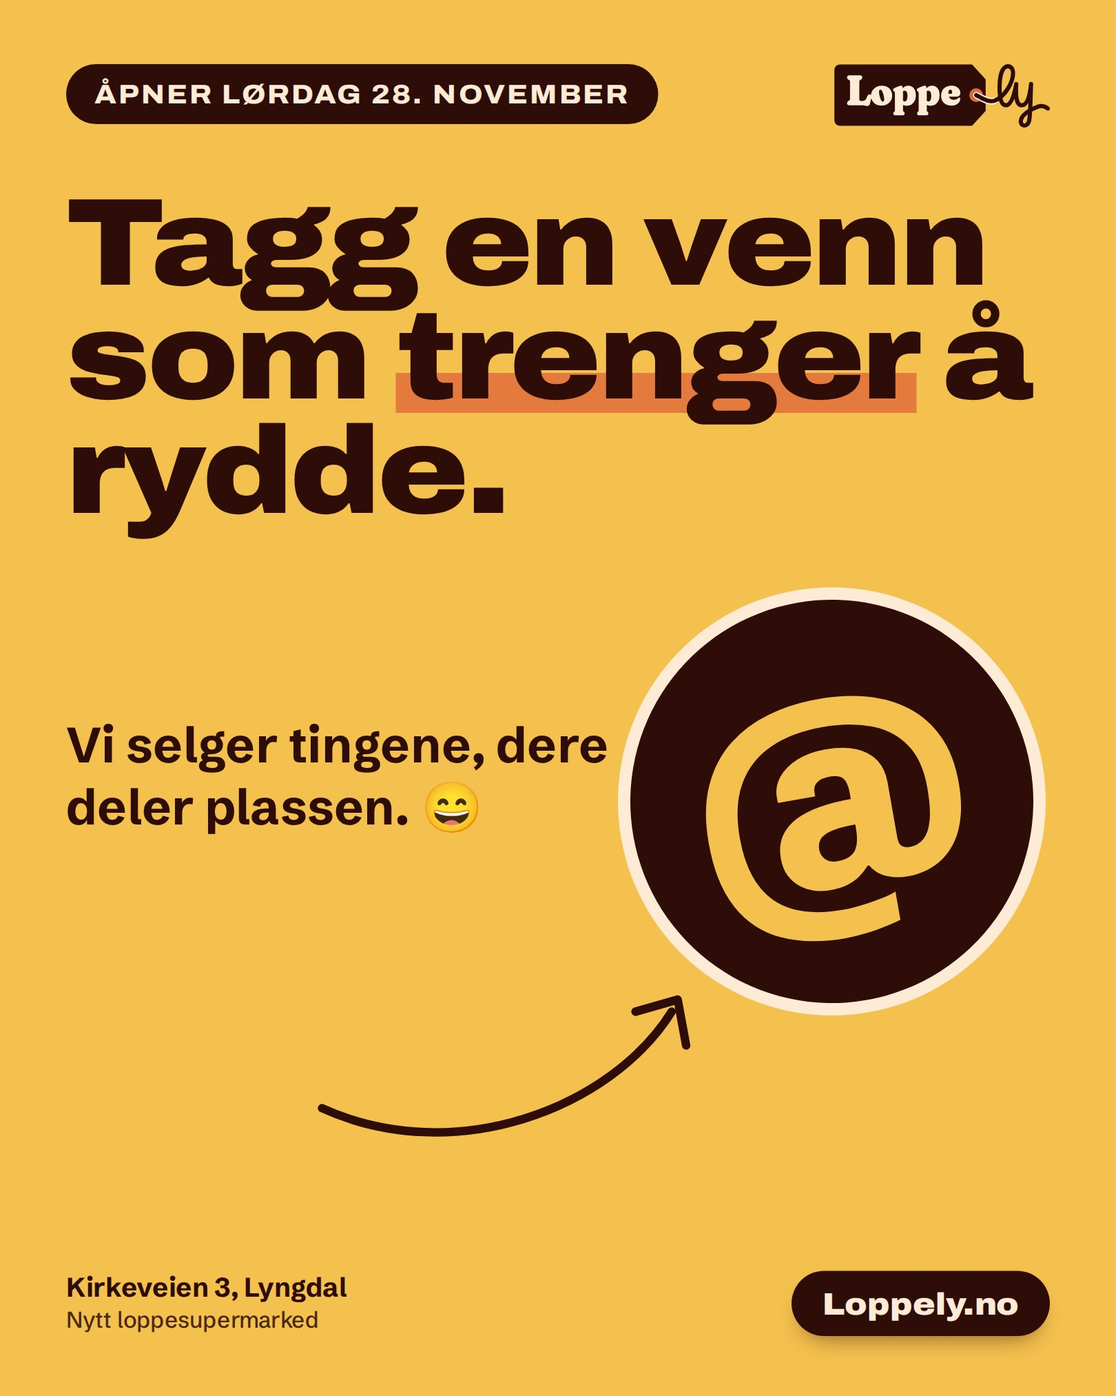
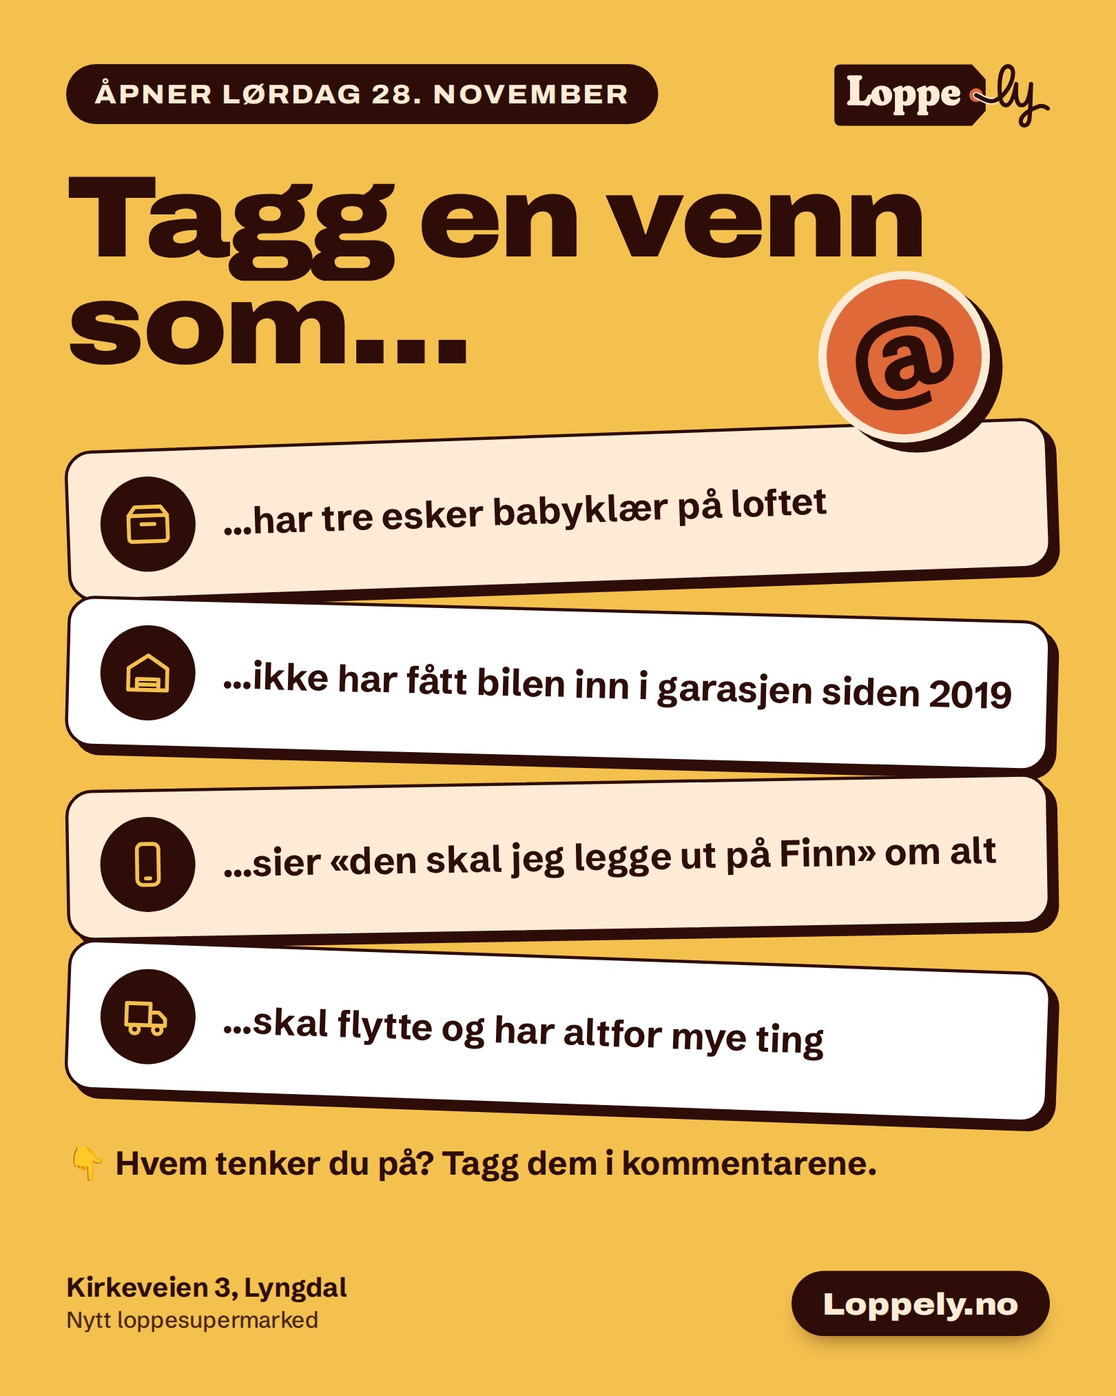
ads: 'Tagg en venn som…' with four relatable types for more comments and tags
Claude-Session: https://claude.ai/code/session_01RRhAi942qst8ZUNjrS2TNS

diff --git a/ads/index.html b/ads/index.html
@@ -47,7 +47,7 @@ footer a{color:inherit}
   </div>
   <div class="grid">
   <article class="card" id="01-konsept">
-    <a class="img" href="01-konsept.jpg?v=09291032" target="_blank"><img src="01-konsept.jpg?v=09291032" width="1620" height="2025" loading="lazy" alt="Konseptet på ett bilde"></a>
+    <a class="img" href="01-konsept.jpg?v=09291227" target="_blank"><img src="01-konsept.jpg?v=09291227" width="1620" height="2025" loading="lazy" alt="Konseptet på ett bilde"></a>
     <div class="body">
       <h2>Konseptet på ett bilde</h2>
       <p class="when">Første innlegg. Fest det øverst på siden.</p>
@@ -58,11 +58,11 @@ Loppely er et nytt loppesupermarked i Kirkeveien 3 i Lyngdal. Du leier en stand,
 Vi åpner lørdag 28. november.
 
 Les mer og meld interesse på Loppely.no</pre>
-      <div class="btns"><button class="btn copy" type="button">Kopier tekst</button><a class="btn ghost" href="01-konsept.jpg?v=09291032" download="01-konsept.jpg">Last ned bilde</a></div>
+      <div class="btns"><button class="btn copy" type="button">Kopier tekst</button><a class="btn ghost" href="01-konsept.jpg?v=09291227" download="01-konsept.jpg">Last ned bilde</a></div>
     </div>
   </article>
   <article class="card" id="02-slik-funker-det">
-    <a class="img" href="02-slik-funker-det.jpg?v=09291032" target="_blank"><img src="02-slik-funker-det.jpg?v=09291032" width="1620" height="2025" loading="lazy" alt="Slik funker det"></a>
+    <a class="img" href="02-slik-funker-det.jpg?v=09291227" target="_blank"><img src="02-slik-funker-det.jpg?v=09291227" width="1620" height="2025" loading="lazy" alt="Slik funker det"></a>
     <div class="body">
       <h2>Slik funker det</h2>
       <p class="when">Uke 1. Forklarer konseptet steg for steg.</p>
@@ -77,11 +77,11 @@ Du trenger ikke stå der selv. Følg salget på «Min side».
 
 Åpner lørdag 28. november i Kirkeveien 3, Lyngdal.
 Loppely.no</pre>
-      <div class="btns"><button class="btn copy" type="button">Kopier tekst</button><a class="btn ghost" href="02-slik-funker-det.jpg?v=09291032" download="02-slik-funker-det.jpg">Last ned bilde</a></div>
+      <div class="btns"><button class="btn copy" type="button">Kopier tekst</button><a class="btn ghost" href="02-slik-funker-det.jpg?v=09291227" download="02-slik-funker-det.jpg">Last ned bilde</a></div>
     </div>
   </article>
   <article class="card" id="03-her-er-vi">
-    <a class="img" href="03-her-er-vi.jpg?v=09291032" target="_blank"><img src="03-her-er-vi.jpg?v=09291032" width="1620" height="2025" loading="lazy" alt="Her finner du oss"></a>
+    <a class="img" href="03-her-er-vi.jpg?v=09291227" target="_blank"><img src="03-her-er-vi.jpg?v=09291227" width="1620" height="2025" loading="lazy" alt="Her finner du oss"></a>
     <div class="body">
       <h2>Her finner du oss</h2>
       <p class="when">Uke 2, og igjen uka før åpning.</p>
@@ -93,11 +93,11 @@ Loppely ligger i Kirkeveien 3, midt i Lyngdal sentrum. Gå rett ned trappen, så
 Vi åpner lørdag 28. november.
 
 Veibeskrivelse på Loppely.no</pre>
-      <div class="btns"><button class="btn copy" type="button">Kopier tekst</button><a class="btn ghost" href="03-her-er-vi.jpg?v=09291032" download="03-her-er-vi.jpg">Last ned bilde</a></div>
+      <div class="btns"><button class="btn copy" type="button">Kopier tekst</button><a class="btn ghost" href="03-her-er-vi.jpg?v=09291227" download="03-her-er-vi.jpg">Last ned bilde</a></div>
     </div>
   </article>
   <article class="card" id="04-priser">
-    <a class="img" href="04-priser.jpg?v=09291032" target="_blank"><img src="04-priser.jpg?v=09291032" width="1620" height="2025" loading="lazy" alt="Priser"></a>
+    <a class="img" href="04-priser.jpg?v=09291227" target="_blank"><img src="04-priser.jpg?v=09291227" width="1620" height="2025" loading="lazy" alt="Priser"></a>
     <div class="body">
       <h2>Priser</h2>
       <p class="when">Uke 2. Svarer på «hva koster det?».</p>
@@ -110,11 +110,11 @@ VIP: fra 349 kr per uke og 29% provisjon. Du leverer varene, vi gjør resten.
 Alle priser inkluderer mva. Laveste pris gjelder ved leie i 4 uker.
 
 Se alt på Loppely.no</pre>
-      <div class="btns"><button class="btn copy" type="button">Kopier tekst</button><a class="btn ghost" href="04-priser.jpg?v=09291032" download="04-priser.jpg">Last ned bilde</a></div>
+      <div class="btns"><button class="btn copy" type="button">Kopier tekst</button><a class="btn ghost" href="04-priser.jpg?v=09291227" download="04-priser.jpg">Last ned bilde</a></div>
     </div>
   </article>
   <article class="card" id="05-utbetalt">
-    <a class="img" href="05-utbetalt.jpg?v=09291032" target="_blank"><img src="05-utbetalt.jpg?v=09291032" width="1620" height="2025" loading="lazy" alt="Dette får du utbetalt"></a>
+    <a class="img" href="05-utbetalt.jpg?v=09291227" target="_blank"><img src="05-utbetalt.jpg?v=09291227" width="1620" height="2025" loading="lazy" alt="Dette får du utbetalt"></a>
     <div class="body">
       <h2>Dette får du utbetalt</h2>
       <p class="when">Uke 3. Gjør regnestykket konkret.</p>
@@ -125,11 +125,11 @@ Selger du noe for 500 kr hos Loppely, får du 405 kr. Provisjonen er 19%, og den
 Pengene betales ut til kontoen din hver måned.
 
 Regn på flere eksempler på Loppely.no</pre>
-      <div class="btns"><button class="btn copy" type="button">Kopier tekst</button><a class="btn ghost" href="05-utbetalt.jpg?v=09291032" download="05-utbetalt.jpg">Last ned bilde</a></div>
+      <div class="btns"><button class="btn copy" type="button">Kopier tekst</button><a class="btn ghost" href="05-utbetalt.jpg?v=09291227" download="05-utbetalt.jpg">Last ned bilde</a></div>
     </div>
   </article>
   <article class="card" id="06-forste-uke-gratis">
-    <a class="img" href="06-forste-uke-gratis.jpg?v=09291032" target="_blank"><img src="06-forste-uke-gratis.jpg?v=09291032" width="1620" height="2025" loading="lazy" alt="Første uke gratis"></a>
+    <a class="img" href="06-forste-uke-gratis.jpg?v=09291227" target="_blank"><img src="06-forste-uke-gratis.jpg?v=09291227" width="1620" height="2025" loading="lazy" alt="Første uke gratis"></a>
     <div class="body">
       <h2>Første uke gratis</h2>
       <p class="when">Når dere vil ha flere på interesselista.</p>
@@ -140,11 +140,11 @@ Meld interesse på Loppely.no, så får du første uke gratis når du leier stan
 Det er gratis og uforpliktende å stå på lista. Vi tar kontakt før åpning.
 
 Loppely åpner lørdag 28. november i Kirkeveien 3, Lyngdal.</pre>
-      <div class="btns"><button class="btn copy" type="button">Kopier tekst</button><a class="btn ghost" href="06-forste-uke-gratis.jpg?v=09291032" download="06-forste-uke-gratis.jpg">Last ned bilde</a></div>
+      <div class="btns"><button class="btn copy" type="button">Kopier tekst</button><a class="btn ghost" href="06-forste-uke-gratis.jpg?v=09291227" download="06-forste-uke-gratis.jpg">Last ned bilde</a></div>
     </div>
   </article>
   <article class="card" id="07-hva-kan-du-selge">
-    <a class="img" href="07-hva-kan-du-selge.jpg?v=09291032" target="_blank"><img src="07-hva-kan-du-selge.jpg?v=09291032" width="1620" height="2025" loading="lazy" alt="Hva kan du selge?"></a>
+    <a class="img" href="07-hva-kan-du-selge.jpg?v=09291227" target="_blank"><img src="07-hva-kan-du-selge.jpg?v=09291227" width="1620" height="2025" loading="lazy" alt="Hva kan du selge?"></a>
     <div class="body">
       <h2>Hva kan du selge?</h2>
       <p class="when">Uke 3. Får folk til å tenke på boden sin.</p>
@@ -155,11 +155,11 @@ Hos Loppely kan du selge klær, barneting, leker, bøker, kjøkkenutstyr, sports
 Større ting som sykler, barnevogner og mindre møbler selger du for 39 kr per uke.
 
 Se hva du kan selge på Loppely.no</pre>
-      <div class="btns"><button class="btn copy" type="button">Kopier tekst</button><a class="btn ghost" href="07-hva-kan-du-selge.jpg?v=09291032" download="07-hva-kan-du-selge.jpg">Last ned bilde</a></div>
+      <div class="btns"><button class="btn copy" type="button">Kopier tekst</button><a class="btn ghost" href="07-hva-kan-du-selge.jpg?v=09291227" download="07-hva-kan-du-selge.jpg">Last ned bilde</a></div>
     </div>
   </article>
   <article class="card" id="08-vip">
-    <a class="img" href="08-vip.jpg?v=09291032" target="_blank"><img src="08-vip.jpg?v=09291032" width="1620" height="2025" loading="lazy" alt="VIP: Vi gjør alt"></a>
+    <a class="img" href="08-vip.jpg?v=09291227" target="_blank"><img src="08-vip.jpg?v=09291227" width="1620" height="2025" loading="lazy" alt="VIP: Vi gjør alt"></a>
     <div class="body">
       <h2>VIP: Vi gjør alt</h2>
       <p class="when">For dem som ikke har tid.</p>
@@ -170,11 +170,11 @@ Du leverer varene, så tar vi bilder, priser og registrerer dem, og gjør stande
 Fra 349 kr per uke og 29% provisjon.
 
 Les mer på Loppely.no</pre>
-      <div class="btns"><button class="btn copy" type="button">Kopier tekst</button><a class="btn ghost" href="08-vip.jpg?v=09291032" download="08-vip.jpg">Last ned bilde</a></div>
+      <div class="btns"><button class="btn copy" type="button">Kopier tekst</button><a class="btn ghost" href="08-vip.jpg?v=09291227" download="08-vip.jpg">Last ned bilde</a></div>
     </div>
   </article>
   <article class="card" id="09-merk-datoen">
-    <a class="img" href="09-merk-datoen.jpg?v=09291032" target="_blank"><img src="09-merk-datoen.jpg?v=09291032" width="1620" height="2025" loading="lazy" alt="Merk datoen"></a>
+    <a class="img" href="09-merk-datoen.jpg?v=09291227" target="_blank"><img src="09-merk-datoen.jpg?v=09291227" width="1620" height="2025" loading="lazy" alt="Merk datoen"></a>
     <div class="body">
       <h2>Merk datoen</h2>
       <p class="when">2 til 3 uker før åpning, og dagen før.</p>
@@ -184,11 +184,11 @@ Lørdag 28. november kl. 10 åpner Loppely i Kirkeveien 3, Lyngdal. Et helt nytt
 
 Vil du selge? Meld interesse på Loppely.no
 Vil du handle? Vi sees 28. november!</pre>
-      <div class="btns"><button class="btn copy" type="button">Kopier tekst</button><a class="btn ghost" href="09-merk-datoen.jpg?v=09291032" download="09-merk-datoen.jpg">Last ned bilde</a></div>
+      <div class="btns"><button class="btn copy" type="button">Kopier tekst</button><a class="btn ghost" href="09-merk-datoen.jpg?v=09291227" download="09-merk-datoen.jpg">Last ned bilde</a></div>
     </div>
   </article>
   <article class="card" id="10-rydd-til-jul">
-    <a class="img" href="10-rydd-til-jul.jpg?v=09291032" target="_blank"><img src="10-rydd-til-jul.jpg?v=09291032" width="1620" height="2025" loading="lazy" alt="Rydd plass til jul"></a>
+    <a class="img" href="10-rydd-til-jul.jpg?v=09291227" target="_blank"><img src="10-rydd-til-jul.jpg?v=09291227" width="1620" height="2025" loading="lazy" alt="Rydd plass til jul"></a>
     <div class="body">
       <h2>Rydd plass til jul</h2>
       <p class="when">Fra midten av november.</p>
@@ -199,11 +199,11 @@ Leker barna har vokst fra, klær som ikke passer, ting som bare står i boden. D
 Lei en stand hos Loppely, så selger vi for deg gjennom hele julehandelen. Vi åpner lørdag 28. november.
 
 Loppely.no</pre>
-      <div class="btns"><button class="btn copy" type="button">Kopier tekst</button><a class="btn ghost" href="10-rydd-til-jul.jpg?v=09291032" download="10-rydd-til-jul.jpg">Last ned bilde</a></div>
+      <div class="btns"><button class="btn copy" type="button">Kopier tekst</button><a class="btn ghost" href="10-rydd-til-jul.jpg?v=09291227" download="10-rydd-til-jul.jpg">Last ned bilde</a></div>
     </div>
   </article>
   <article class="card" id="11-hvem-er-vi">
-    <a class="img" href="11-hvem-er-vi.jpg?v=09291032" target="_blank"><img src="11-hvem-er-vi.jpg?v=09291032" width="1620" height="2025" loading="lazy" alt="Hvem er vi"></a>
+    <a class="img" href="11-hvem-er-vi.jpg?v=09291227" target="_blank"><img src="11-hvem-er-vi.jpg?v=09291227" width="1620" height="2025" loading="lazy" alt="Hvem er vi"></a>
     <div class="body">
       <h2>Hvem er vi</h2>
       <p class="when">Tidlig. Folk handler med folk.</p>
@@ -214,11 +214,11 @@ Vi åpner Loppely i Lyngdal fordi vi mener gode ting fortjener et nytt hjem, og 
 Lørdag 28. november åpner vi dørene i Kirkeveien 3. Vi gleder oss til å se dere!
 
 Loppely.no</pre>
-      <div class="btns"><button class="btn copy" type="button">Kopier tekst</button><a class="btn ghost" href="11-hvem-er-vi.jpg?v=09291032" download="11-hvem-er-vi.jpg">Last ned bilde</a></div>
+      <div class="btns"><button class="btn copy" type="button">Kopier tekst</button><a class="btn ghost" href="11-hvem-er-vi.jpg?v=09291227" download="11-hvem-er-vi.jpg">Last ned bilde</a></div>
     </div>
   </article>
   <article class="card" id="12-for-og-etter">
-    <a class="img" href="12-for-og-etter.jpg?v=09291032" target="_blank"><img src="12-for-og-etter.jpg?v=09291032" width="1620" height="2025" loading="lazy" alt="Før og etter"></a>
+    <a class="img" href="12-for-og-etter.jpg?v=09291227" target="_blank"><img src="12-for-og-etter.jpg?v=09291227" width="1620" height="2025" loading="lazy" alt="Før og etter"></a>
     <div class="body">
       <h2>Før og etter</h2>
       <p class="when">Når som helst. Viser gevinsten på ett blikk.</p>
@@ -228,11 +228,11 @@ Lei en stand hos Loppely, sett prisen, og la oss selge tingene for deg. Du får 
 
 Åpner lørdag 28. november i Kirkeveien 3, Lyngdal.
 Loppely.no</pre>
-      <div class="btns"><button class="btn copy" type="button">Kopier tekst</button><a class="btn ghost" href="12-for-og-etter.jpg?v=09291032" download="12-for-og-etter.jpg">Last ned bilde</a></div>
+      <div class="btns"><button class="btn copy" type="button">Kopier tekst</button><a class="btn ghost" href="12-for-og-etter.jpg?v=09291227" download="12-for-og-etter.jpg">Last ned bilde</a></div>
     </div>
   </article>
   <article class="card" id="13-avstemning">
-    <a class="img" href="13-avstemning.jpg?v=09291032" target="_blank"><img src="13-avstemning.jpg?v=09291032" width="1620" height="2025" loading="lazy" alt="Avstemning: Hva ligger i boden?"></a>
+    <a class="img" href="13-avstemning.jpg?v=09291227" target="_blank"><img src="13-avstemning.jpg?v=09291227" width="1620" height="2025" loading="lazy" alt="Avstemning: Hva ligger i boden?"></a>
     <div class="body">
       <h2>Avstemning: Hva ligger i boden?</h2>
       <p class="when">For engasjement. Svar på kommentarene.</p>
@@ -246,11 +246,11 @@ D. Alt mulig rart
 Svar med bokstaven i kommentarfeltet. Uansett svar: alt dette kan du selge hos Loppely fra 28. november.
 
 Loppely.no</pre>
-      <div class="btns"><button class="btn copy" type="button">Kopier tekst</button><a class="btn ghost" href="13-avstemning.jpg?v=09291032" download="13-avstemning.jpg">Last ned bilde</a></div>
+      <div class="btns"><button class="btn copy" type="button">Kopier tekst</button><a class="btn ghost" href="13-avstemning.jpg?v=09291227" download="13-avstemning.jpg">Last ned bilde</a></div>
     </div>
   </article>
   <article class="card" id="14-19-prosent">
-    <a class="img" href="14-19-prosent.jpg?v=09291032" target="_blank"><img src="14-19-prosent.jpg?v=09291032" width="1620" height="2025" loading="lazy" alt="19%"></a>
+    <a class="img" href="14-19-prosent.jpg?v=09291227" target="_blank"><img src="14-19-prosent.jpg?v=09291227" width="1620" height="2025" loading="lazy" alt="19%"></a>
     <div class="body">
       <h2>19%</h2>
       <p class="when">Uke 3. Enkelt og tydelig.</p>
@@ -260,11 +260,11 @@ For det står vi i kassen, rydder standen hver dag, og du følger salget på «M
 
 Stand fra 200 kr per uke. Åpner 28. november.
 Loppely.no</pre>
-      <div class="btns"><button class="btn copy" type="button">Kopier tekst</button><a class="btn ghost" href="14-19-prosent.jpg?v=09291032" download="14-19-prosent.jpg">Last ned bilde</a></div>
+      <div class="btns"><button class="btn copy" type="button">Kopier tekst</button><a class="btn ghost" href="14-19-prosent.jpg?v=09291227" download="14-19-prosent.jpg">Last ned bilde</a></div>
     </div>
   </article>
   <article class="card" id="15-prislapp">
-    <a class="img" href="15-prislapp.jpg?v=09291032" target="_blank"><img src="15-prislapp.jpg?v=09291032" width="1620" height="2025" loading="lazy" alt="Prislappen"></a>
+    <a class="img" href="15-prislapp.jpg?v=09291227" target="_blank"><img src="15-prislapp.jpg?v=09291227" width="1620" height="2025" loading="lazy" alt="Prislappen"></a>
     <div class="body">
       <h2>Prislappen</h2>
       <p class="when">Når som helst. Blikkfang i feeden.</p>
@@ -274,11 +274,11 @@ Hos Loppely bestemmer du hva tingene dine skal koste. Du registrerer varene, skr
 
 Åpner lørdag 28. november.
 Loppely.no</pre>
-      <div class="btns"><button class="btn copy" type="button">Kopier tekst</button><a class="btn ghost" href="15-prislapp.jpg?v=09291032" download="15-prislapp.jpg">Last ned bilde</a></div>
+      <div class="btns"><button class="btn copy" type="button">Kopier tekst</button><a class="btn ghost" href="15-prislapp.jpg?v=09291227" download="15-prislapp.jpg">Last ned bilde</a></div>
     </div>
   </article>
   <article class="card" id="16-sjekkliste">
-    <a class="img" href="16-sjekkliste.jpg?v=09291032" target="_blank"><img src="16-sjekkliste.jpg?v=09291032" width="1620" height="2025" loading="lazy" alt="Sjekkliste før du leverer"></a>
+    <a class="img" href="16-sjekkliste.jpg?v=09291227" target="_blank"><img src="16-sjekkliste.jpg?v=09291227" width="1620" height="2025" loading="lazy" alt="Sjekkliste før du leverer"></a>
     <div class="body">
       <h2>Sjekkliste før du leverer</h2>
       <p class="when">Uka før åpning.</p>
@@ -293,11 +293,11 @@ Loppely.no</pre>
 Så er standen klar, og du får plass hjemme igjen. Vil du slippe alt dette? Velg VIP, så gjør vi det for deg.
 
 Loppely.no</pre>
-      <div class="btns"><button class="btn copy" type="button">Kopier tekst</button><a class="btn ghost" href="16-sjekkliste.jpg?v=09291032" download="16-sjekkliste.jpg">Last ned bilde</a></div>
+      <div class="btns"><button class="btn copy" type="button">Kopier tekst</button><a class="btn ghost" href="16-sjekkliste.jpg?v=09291227" download="16-sjekkliste.jpg">Last ned bilde</a></div>
     </div>
   </article>
   <article class="card" id="17-bra-for-alle">
-    <a class="img" href="17-bra-for-alle.jpg?v=09291032" target="_blank"><img src="17-bra-for-alle.jpg?v=09291032" width="1620" height="2025" loading="lazy" alt="Bra for lommeboka og miljøet"></a>
+    <a class="img" href="17-bra-for-alle.jpg?v=09291227" target="_blank"><img src="17-bra-for-alle.jpg?v=09291227" width="1620" height="2025" loading="lazy" alt="Bra for lommeboka og miljøet"></a>
     <div class="body">
       <h2>Bra for lommeboka og miljøet</h2>
       <p class="when">Når som helst. Myk og positiv.</p>
@@ -307,11 +307,11 @@ Når du selger det du ikke bruker, får du penger og plass hjemme. Og tingene di
 
 Loppely åpner i Lyngdal lørdag 28. november.
 Loppely.no</pre>
-      <div class="btns"><button class="btn copy" type="button">Kopier tekst</button><a class="btn ghost" href="17-bra-for-alle.jpg?v=09291032" download="17-bra-for-alle.jpg">Last ned bilde</a></div>
+      <div class="btns"><button class="btn copy" type="button">Kopier tekst</button><a class="btn ghost" href="17-bra-for-alle.jpg?v=09291227" download="17-bra-for-alle.jpg">Last ned bilde</a></div>
     </div>
   </article>
   <article class="card" id="18-min-side">
-    <a class="img" href="18-min-side.jpg?v=09291032" target="_blank"><img src="18-min-side.jpg?v=09291032" width="1620" height="2025" loading="lazy" alt="Følg salget på mobilen"></a>
+    <a class="img" href="18-min-side.jpg?v=09291227" target="_blank"><img src="18-min-side.jpg?v=09291227" width="1620" height="2025" loading="lazy" alt="Følg salget på mobilen"></a>
     <div class="body">
       <h2>Følg salget på mobilen</h2>
       <p class="when">Uke 3. Viser «Min side».</p>
@@ -321,11 +321,11 @@ På «Min side» ser du hva som er solgt, hva som står igjen, og hvor mye du ha
 
 Loppely åpner lørdag 28. november.
 Loppely.no</pre>
-      <div class="btns"><button class="btn copy" type="button">Kopier tekst</button><a class="btn ghost" href="18-min-side.jpg?v=09291032" download="18-min-side.jpg">Last ned bilde</a></div>
+      <div class="btns"><button class="btn copy" type="button">Kopier tekst</button><a class="btn ghost" href="18-min-side.jpg?v=09291227" download="18-min-side.jpg">Last ned bilde</a></div>
     </div>
   </article>
   <article class="card" id="19-sporsmal-og-svar">
-    <a class="img" href="19-sporsmal-og-svar.jpg?v=09291032" target="_blank"><img src="19-sporsmal-og-svar.jpg?v=09291032" width="1620" height="2025" loading="lazy" alt="Spørsmål og svar"></a>
+    <a class="img" href="19-sporsmal-og-svar.jpg?v=09291227" target="_blank"><img src="19-sporsmal-og-svar.jpg?v=09291227" width="1620" height="2025" loading="lazy" alt="Spørsmål og svar"></a>
     <div class="body">
       <h2>Spørsmål og svar</h2>
       <p class="when">Uke 2 til 4. Fjerner tvil.</p>
@@ -336,11 +336,11 @@ Hvem setter prisen? Du. Og du kan endre den underveis.
 Når får jeg pengene? Utbetaling hver måned.
 
 Har du flere spørsmål? Skriv i kommentarfeltet, eller les mer på Loppely.no</pre>
-      <div class="btns"><button class="btn copy" type="button">Kopier tekst</button><a class="btn ghost" href="19-sporsmal-og-svar.jpg?v=09291032" download="19-sporsmal-og-svar.jpg">Last ned bilde</a></div>
+      <div class="btns"><button class="btn copy" type="button">Kopier tekst</button><a class="btn ghost" href="19-sporsmal-og-svar.jpg?v=09291227" download="19-sporsmal-og-svar.jpg">Last ned bilde</a></div>
     </div>
   </article>
   <article class="card" id="20-kvittering">
-    <a class="img" href="20-kvittering.jpg?v=09291032" target="_blank"><img src="20-kvittering.jpg?v=09291032" width="1620" height="2025" loading="lazy" alt="Kvitteringen"></a>
+    <a class="img" href="20-kvittering.jpg?v=09291227" target="_blank"><img src="20-kvittering.jpg?v=09291227" width="1620" height="2025" loading="lazy" alt="Kvitteringen"></a>
     <div class="body">
       <h2>Kvitteringen</h2>
       <p class="when">Uke 3 eller 4. Konkret og morsom.</p>
@@ -352,21 +352,26 @@ Tallene er et eksempel. Du setter prisene selv.
 
 Loppely åpner lørdag 28. november.
 Loppely.no</pre>
-      <div class="btns"><button class="btn copy" type="button">Kopier tekst</button><a class="btn ghost" href="20-kvittering.jpg?v=09291032" download="20-kvittering.jpg">Last ned bilde</a></div>
+      <div class="btns"><button class="btn copy" type="button">Kopier tekst</button><a class="btn ghost" href="20-kvittering.jpg?v=09291227" download="20-kvittering.jpg">Last ned bilde</a></div>
     </div>
   </article>
   <article class="card" id="21-tagg-en-venn">
-    <a class="img" href="21-tagg-en-venn.jpg?v=09291032" target="_blank"><img src="21-tagg-en-venn.jpg?v=09291032" width="1620" height="2025" loading="lazy" alt="Tagg en venn"></a>
+    <a class="img" href="21-tagg-en-venn.jpg?v=09291227" target="_blank"><img src="21-tagg-en-venn.jpg?v=09291227" width="1620" height="2025" loading="lazy" alt="Tagg en venn"></a>
     <div class="body">
-      <h2>Tagg en venn</h2>
-      <p class="when">For rekkevidde. Når som helst.</p>
-      <pre class="cap">Tagg en venn som trenger å rydde 😄👇
+      <h2>Tagg en venn som…</h2>
+      <p class="when">For rekkevidde. Folk kjenner seg igjen og tagger.</p>
+      <pre class="cap">Tagg en venn som… 👇
 
-Vi vet alle om en med full bod, et overfylt klesskap eller et barnerom med leker ingen bruker lenger. Hos Loppely leier de en stand, og vi selger tingene for dem.
+📦 …har tre esker babyklær på loftet
+🚗 …ikke har fått bilen inn i garasjen siden 2019
+📱 …sier «den skal jeg legge ut på Finn» om alt
+🚚 …skal flytte og har altfor mye ting
 
-Åpner lørdag 28. november i Kirkeveien 3, Lyngdal.
+Hvem tenker du på? Tagg dem i kommentarene! 😄
+
+Hos Loppely leier de en stand, og vi selger tingene for dem. Åpner lørdag 28. november i Kirkeveien 3, Lyngdal.
 Loppely.no</pre>
-      <div class="btns"><button class="btn copy" type="button">Kopier tekst</button><a class="btn ghost" href="21-tagg-en-venn.jpg?v=09291032" download="21-tagg-en-venn.jpg">Last ned bilde</a></div>
+      <div class="btns"><button class="btn copy" type="button">Kopier tekst</button><a class="btn ghost" href="21-tagg-en-venn.jpg?v=09291227" download="21-tagg-en-venn.jpg">Last ned bilde</a></div>
     </div>
   </article>
   </div>
